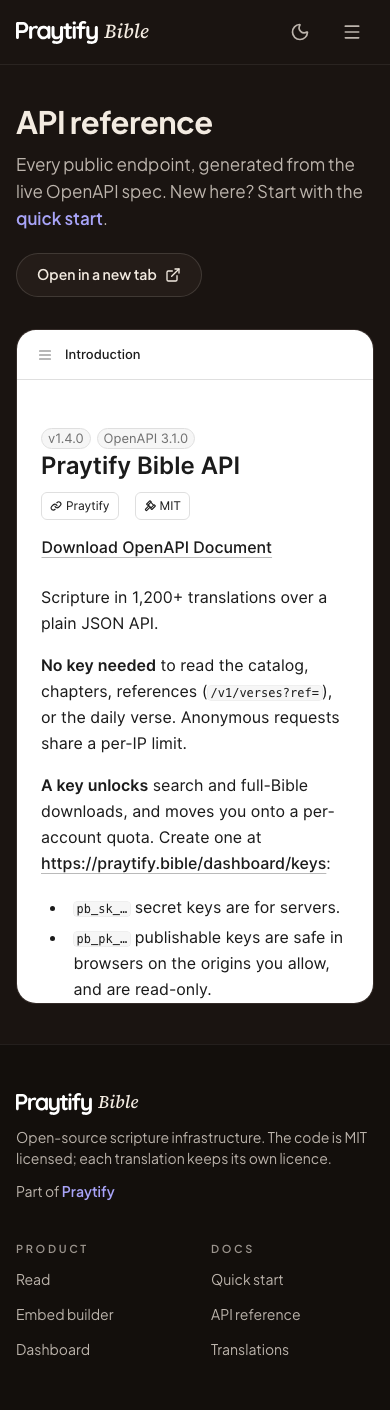
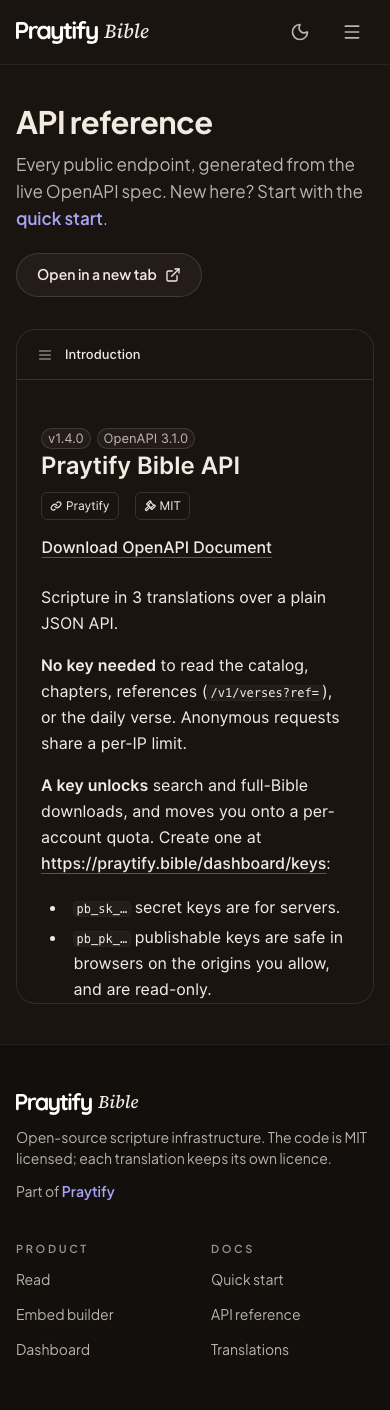
docs(ui): recapture the themed API reference and close its gaps
The /docs screens now show Scalar in the portal's theme. The board
marks the Scalar contrast and theme gap and the "1,200+" copy as
resolved, and the QA entry records axe running inside the frame.

Claude-Session: https://claude.ai/code/session_01M1XzcoyPYHFdfo8xExfU6B

diff --git a/docs/ui-revamp/BOARD.md b/docs/ui-revamp/BOARD.md
@@ -105,8 +105,8 @@
 - **Anonymous rate limit is shared by every agent's e2e run** (120 per minute per IP on localhost). The reader spec makes about 50 public reads per project; concurrent runs across agents can tip it into 429s. The reader handles that honestly, but the spec would fail.
 - **Engine 400 envelope for a short version search** (lead or engine). `GET /v1/versions?search=e` returns `{ success: false, error: { name: "ZodError", message: "<JSON of the issues>" } }`, so `ApiError.message` becomes a JSON blob. The embed picker avoids it by searching from 2 characters; other callers would show it.
 - **nginx `/embed` hard load affects the embed builder** (lead; ia-navigation logged the same root cause). A direct visit or reload of `https://praytify.bible/embed` resolves to the `/embed/` directory, not the SPA. Either `location = /embed { try_files /index.html =404; }` or dropping `$uri/` from `location /` fixes it. The e2e reload test passes on Vite only.
-- **Scalar reference fails axe inside the frame** (lead, `src/routes/docs.ts`). Placeholder and tab text in the gateway-served Scalar page are below AA in both themes. The portal's own `/docs` chrome passes; the pages spec excludes the iframe. Scalar also stays light inside the dark portal; a `?theme=` the docs route maps to Scalar's `darkMode` (and `customCss` for contrast) would fix both.
-- **Gateway docs copy says "1,200+ translations"** (`src/routes/docs.ts` DESCRIPTION); the README says 1,288. Lead's call which to keep.
+- **Resolved: Scalar reference theme and contrast** (lead, 820e245 and 5802003). `/docs?theme=light|dark` themes Scalar in Sacred Dawn and hides its toggle; the portal passes its resolved theme and reloads the frame on change (dc7ca81). Method and syntax colours are AA on every Scalar surface. The pages spec now runs axe inside the cross-origin frame, light and dark, with no exclusion (589f8bc).
+- **Resolved: gateway docs copy** now quotes the live translation count from the engine (820e245).
 - **Explained: OAuth buttons render on the local stack.** The local gateway reads the main checkout's `.env`, which holds dev OAuth credentials, so `/api/auth-methods` reports all three methods but the OAuth round trip cannot complete in e2e. The pages spec tests the email path for real, checks only that the OAuth buttons match the server's answer, and stubs `/api/auth-methods` for the email-only and none-configured states (lead confirmed).
 - **Resolved: static gates, full `src`.** After the page migration the whole tree is clean: 0 identity, 0 raw hex, 0 palette, 0 primitive imports outside `ds/`. Google's four-colour mark is an SVG asset, not page markup.
 
@@ -118,5 +118,5 @@
 | Phase 2 shell, nav and homes: `/`, `/dashboard` (first run), not-found, public menu sheet, dashboard menu sheet, docs and user menus at 1440x900 and 390x844, light and dark | ia-navigation | pass after fixes, awaiting qa-critic | `screens/{home,dashboard,not-found}-{1440,390}-{light,dark}.png`, `screens/{menu-open,dashboard-menu-open}-390-{light,dark}.png` | e2e `features/navigation.spec.ts` 36/36 on desktop and mobile: every public route from the header and the sheet with one current item, dashboard sidebar after sign-up, guard round trip with `?redirect=`, sign-out to `/`, theme persists across reload, not-found, skip link, plain `?v=`, recharts absent from public pages, axe light and dark on home and overview. Fixed during the check: dashboard header link overlapped the logo at 390; guard redirect nested itself; ds menu item slot error (worked around, above) |
 | Phase 3 reader self-check: `/read/WEB/JHN/3` and a `?v=16-18` selection at 1440x900 and 390x844, light and dark; AVD (RTL) at 1440 | reader | pass after fixes, awaiting qa-critic | `screens/read-{1440,390}-{light,dark}.png`, `screens/read-selection-{1440,390}-{light,dark}.png` | e2e `features/reader.spec.ts` 17 passed, 1 skipped (keyboard-only case on mobile) on desktop and mobile against the local stack, axe clean light and dark with a selection. Only the 429 response is stubbed. Fixed during the check: picking a searched translation did nothing (search reset re-rendered the list between mousedown and click); Shift-click extended the native text selection and was ignored; `lang="eng"` failed axe; the chapter Select flipped uncontrolled to controlled; the toolbar reference reordered to "18-3:16" around an Arabic book name (now `<bdi>`); synthetic italics on the Arabic heading; the chapter Select ignored its width because `controlBase` is `w-full` |
 | Phase 3 embed builder self-check: `/embed` default, and attribution off plus an unresolved reference plus a low-contrast accent, at 1440x900 and 390x844, light and dark. `e2e/features/embed.spec.ts` 18/18 (9 tests on desktop and mobile), including the copied snippet rendering on a blank page on another origin | embed | pass, awaiting qa-critic | `screens/embed-{1440,390}-{light,dark}.png`, `screens/embed-states-1440-light.png` | axe caught the widget's ISO 639-3 `lang` (lead fixed it in dd51d4c). Otherwise clean in both themes and viewports |
-| Phase 4 page migration: `/login`, `/docs`, `/docs/quickstart`, `/docs/translations`, `/dashboard/usage`, `/dashboard/settings` at 1440x900 and 390x844, light and dark | page-migration | pass, awaiting qa-critic. `e2e/features/pages.spec.ts` 62 of 62 on desktop and mobile; axe clean on every page in both themes (on `/docs`, outside the Scalar frame) | `screens/{login,docs,quickstart,translations,usage,settings}-{1440,390}-{light,dark}.png` | Fixed in self-check: plan sentence spacing; usage "0 ms" average over no requests now reads "None"; per-key chart toggle name (label in name). Open: Scalar contrast and theme (gaps) |
+| Phase 4 page migration: `/login`, `/docs`, `/docs/quickstart`, `/docs/translations`, `/dashboard/usage`, `/dashboard/settings` at 1440x900 and 390x844, light and dark | page-migration | pass, awaiting qa-critic. `e2e/features/pages.spec.ts` 62 of 62 on desktop and mobile; axe clean on every page in both themes, including inside the Scalar frame on `/docs` | `screens/{login,docs,quickstart,translations,usage,settings}-{1440,390}-{light,dark}.png` | Fixed in self-check: plan sentence spacing; usage "0 ms" average over no requests now reads "None"; per-key chart toggle name (label in name). Scalar contrast and theme fixed in the gateway; docs screens recaptured |
 | Phase 2 follow-up on lead decisions: source links gated, catalog counts from `catalogStats()`, per-route titles | ia-navigation | pass, awaiting qa-critic | `screens/{home,not-found}-{1440,390}-{light,dark}.png` reshot without source links | `features/navigation.spec.ts` 40/40 on desktop and mobile with no source URL, plus the source-link and axe tests 6/6 with `VITE_SOURCE_URL` set. New tests: titles (including the reader keeping its own), landing counts equal to the API's. The chart check now reads script bodies, so it also holds against the production build (`E2E_MODE=preview`) |
